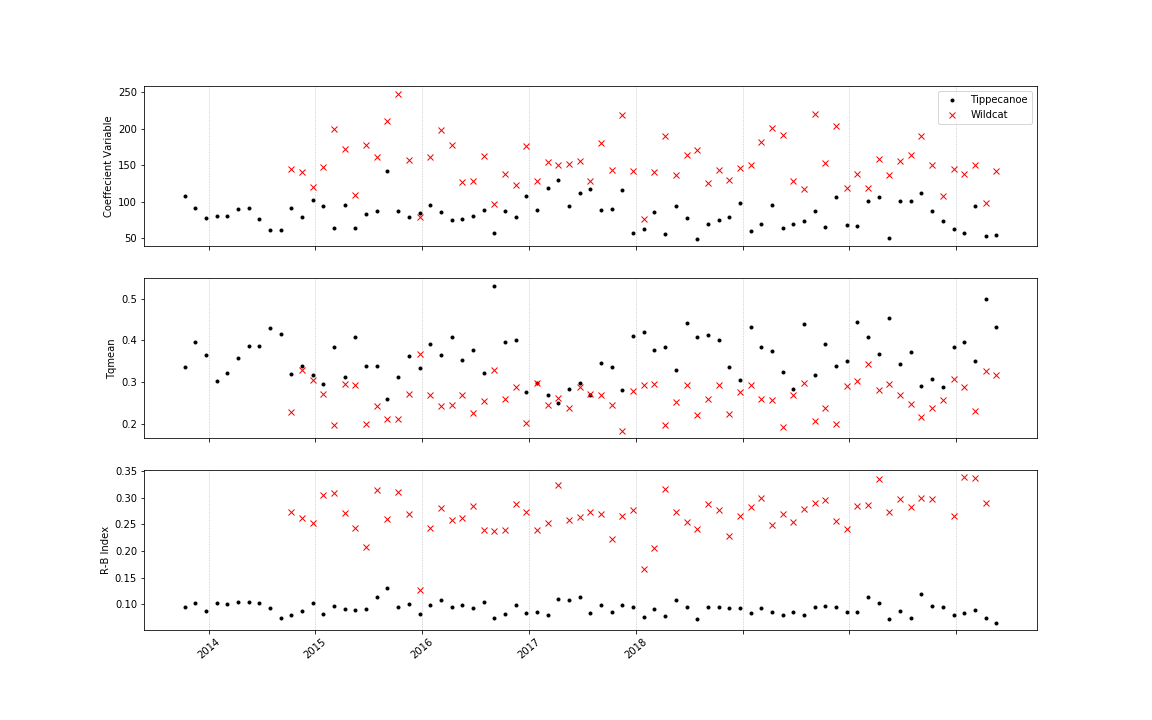
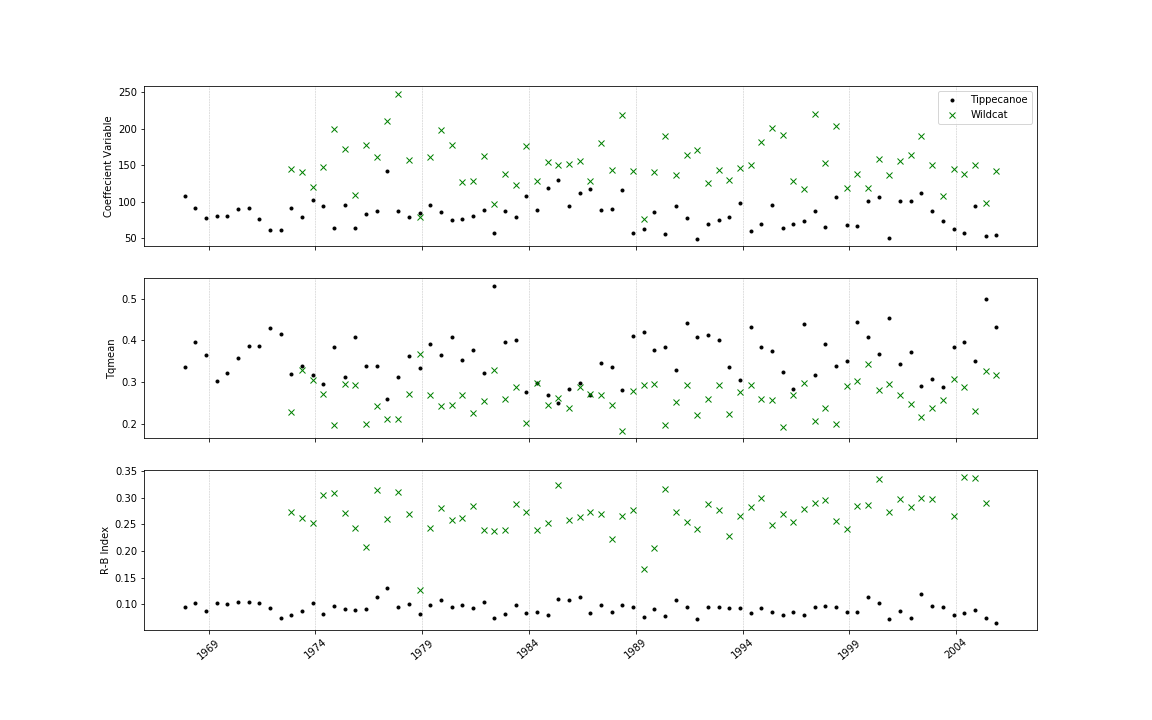
fixed year spacing

diff --git a/program_11.py b/program_11.py
@@ -158,7 +158,7 @@ if __name__ == '__main__':
              AnMet['Coeff Var'][AnMet['Station'] == 'Tippe'], 'black', linestyle='None',marker='.', label='Tippecanoe') 
     #filter for Wildcat 
     plt.plot(AnMet.index[AnMet['Station'] == 'Wildcat'],
-             AnMet['Coeff Var'][AnMet['Station'] == 'Wildcat'], 'red', linestyle='None',marker='x',label='Wildcat')
+             AnMet['Coeff Var'][AnMet['Station'] == 'Wildcat'], 'green', linestyle='None',marker='x',label='Wildcat')
     plt.legend(loc='upper right')
     #give the axis an object point
     ax = plt.gca() 
@@ -173,7 +173,7 @@ if __name__ == '__main__':
     plt.plot(AnMet.index[AnMet['Station'] == 'Tippe'],
              AnMet['Tqmean'][AnMet['Station'] == 'Tippe'], 'black', linestyle='None',marker='.')
     plt.plot(AnMet.index[AnMet['Station'] == 'Wildcat'],
-             AnMet['Tqmean'][AnMet['Station'] == 'Wildcat'], 'red', linestyle='None',marker='x')
+             AnMet['Tqmean'][AnMet['Station'] == 'Wildcat'], 'green', linestyle='None',marker='x')
     ax = plt.gca() 
     ax.axes.xaxis.set_ticklabels([])
     ax.xaxis.grid(which='major',color='gray',linewidth=0.5,linestyle='--',alpha=0.5)
@@ -183,11 +183,11 @@ if __name__ == '__main__':
     plt.plot(AnMet.index[AnMet['Station'] == 'Tippe'],
              AnMet['R-B Index'][AnMet['Station'] == 'Tippe'], 'black', linestyle='None',marker='.')
     plt.plot(AnMet.index[AnMet['Station'] == 'Wildcat'],
-             AnMet['R-B Index'][AnMet['Station'] == 'Wildcat'], 'red', linestyle='None',marker='x')
+             AnMet['R-B Index'][AnMet['Station'] == 'Wildcat'], 'green', linestyle='None',marker='x')
     #creates x-axis
     ax = plt.gca() 
     #set year values
-    ax.set_xticklabels(np.arange(2014,2019,1)) 
+    ax.set_xticklabels(np.arange(1969,2019,5)) 
     ax.tick_params(axis='x',labelrotation=40) 
     ax.xaxis.grid(which='major',color='gray',linewidth=0.5,linestyle='--',alpha=0.5)
     plt.ylabel('R-B Index')
@@ -199,7 +199,7 @@ if __name__ == '__main__':
     fig = plt.figure(figsize=(16,10)) 
     plt.plot(monthlysfTippe.index,monthlysfTippe['Mean Flow'],
              'black',linestyle='None',marker='.',label='Tippecanoe')
-    plt.plot(monthlysfWildcat.index,monthlysfWildcat['Mean Flow'],'red',
+    plt.plot(monthlysfWildcat.index,monthlysfWildcat['Mean Flow'],'green',
              linestyle='None',marker='x',label='Wildcat')
     plt.xticks(np.arange(1,13,1)) 
     plt.legend(loc='upper right')
@@ -241,7 +241,7 @@ if __name__ == '__main__':
     plt.plot(peakTippe_sort['Exceedence'],
              peakTippe_sort['Peak Flow'], 'black', linestyle='None',marker='.', label = 'Tippecanoe') 
     plt.plot(peakWildcat_sort['Exceedence'],
-             peakWildcat_sort['Peak Flow'], 'red', linestyle='None',marker='x', label = 'Wildcat')
+             peakWildcat_sort['Peak Flow'], 'green', linestyle='None',marker='x', label = 'Wildcat')
     ax = plt.gca()
     #set reversal of the x axis 
     ax.set_xlim(1,0) 
